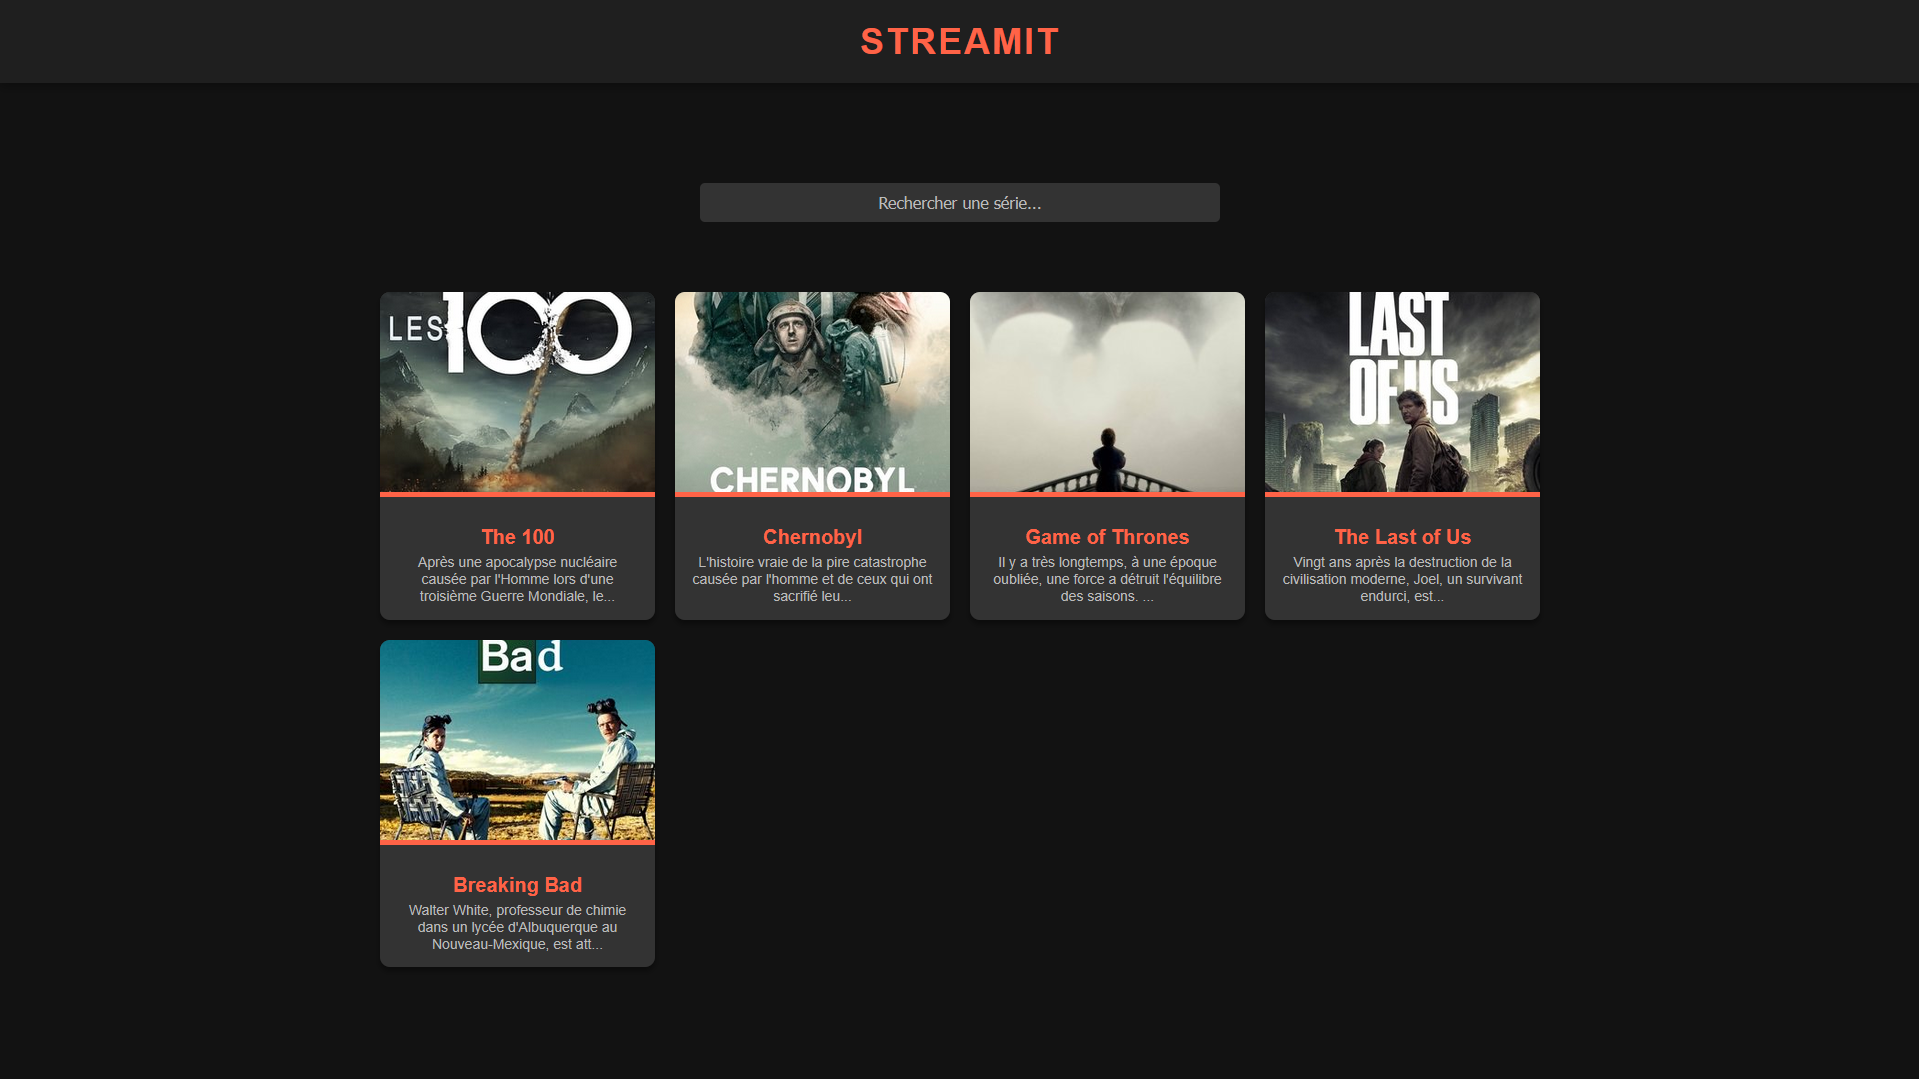
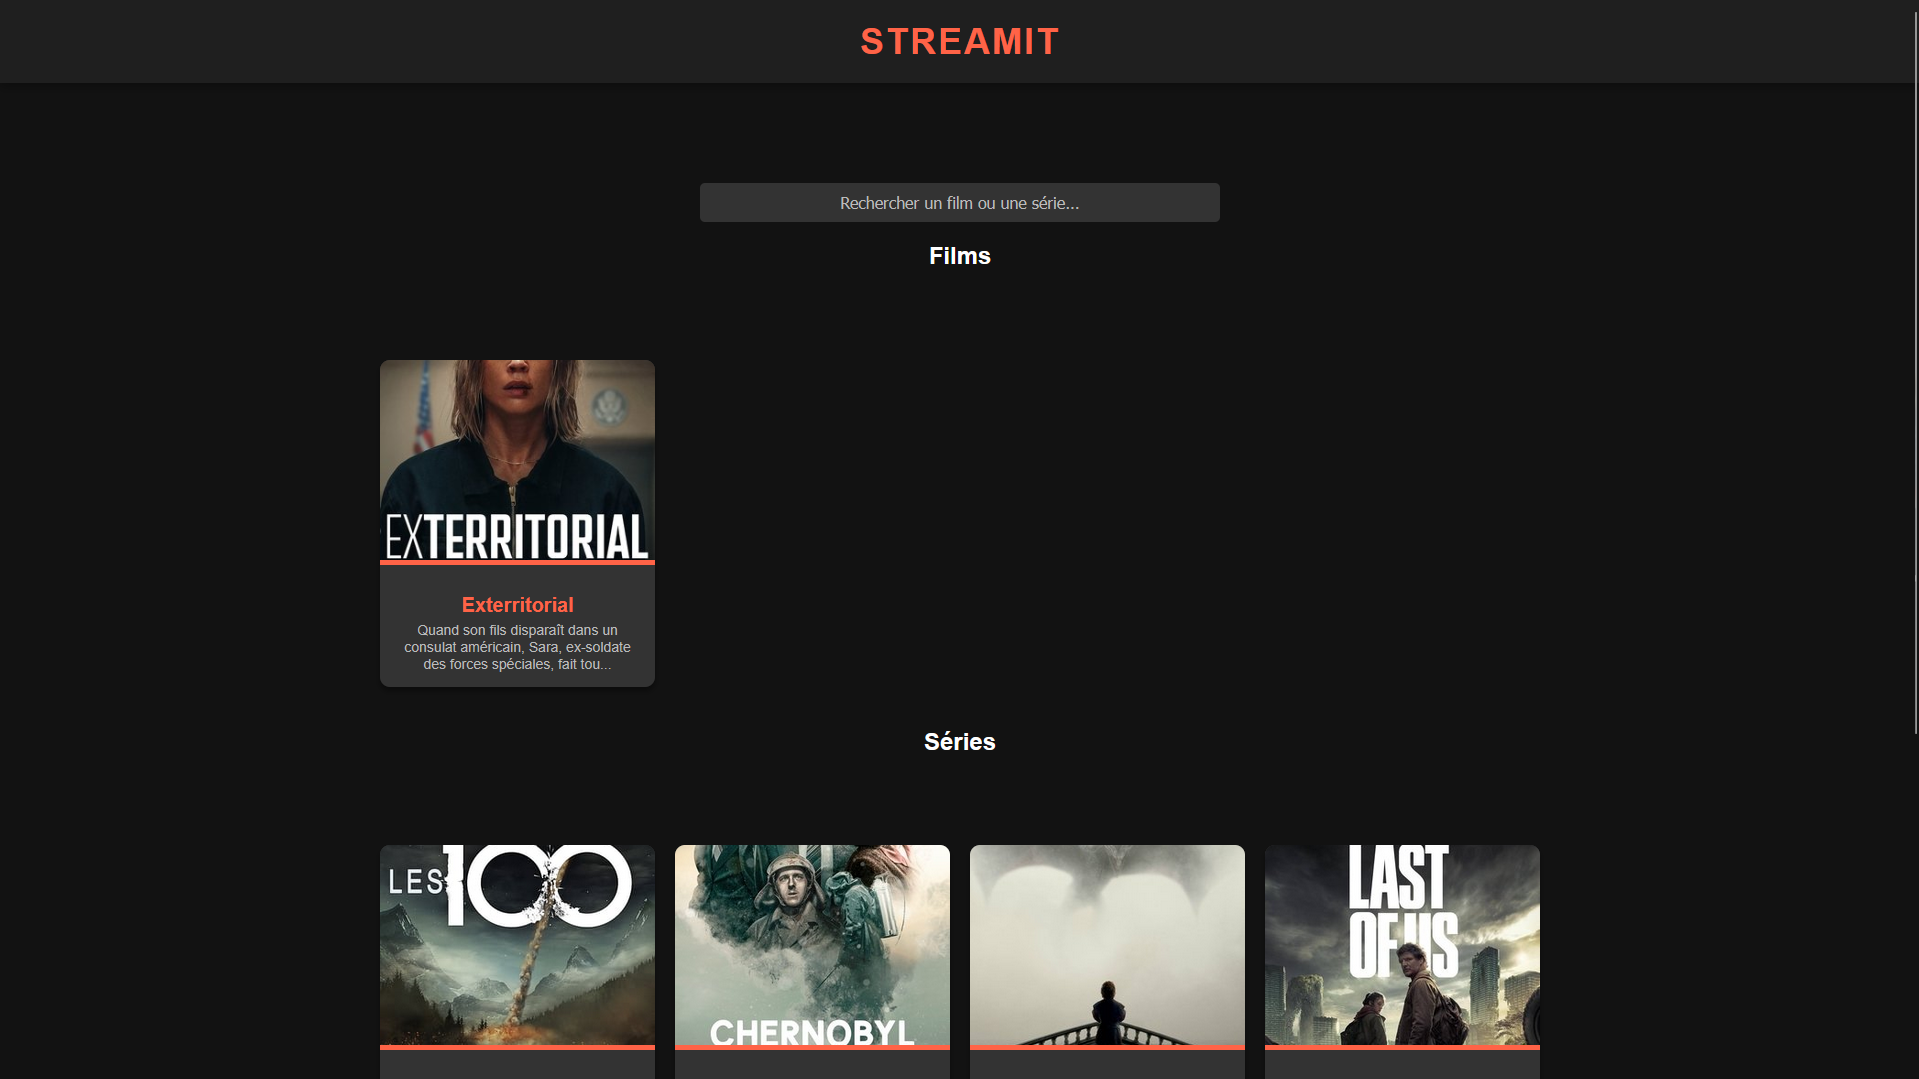
📝 readme update

Changed region(s): [[0.1845, 0.2447, 0.8301, 1.0], [0.4304, 0.1835, 0.5534, 0.2447], [0.4612, 0.6728, 0.5227, 0.7034]]

diff --git a/README.md b/README.md
@@ -25,6 +25,9 @@ Vous pouvez tester l'application [ici](https://www.matheo-pichotmoise.fr/StreamI
 ## Page des séries
 <img src="media/README/series.png" alt="Page des séries" />
 
+## Page des films
+<img src="media/README/films.png" alt="Page des films" />
+
 ## Page de stream
 <img src="media/README/watching.png" alt="Page de stream" />
 </details>
@@ -73,9 +76,10 @@ StreamIt/
 │   │   ├── X/
 │   │   ├── XX/
 │   │   └── XXX/
-│   └── README/               # Dossier d'image pour le README
+│   └── README/              # Dossier d'image pour le README
+│   │   ├── films.png
 │   │   ├── index.png
-│   │   ├── series.pong
+│   │   ├── series.png
 │   │   └── watching.png
 │   └── logo.png              # Logo de l'application
 ├── CODE_OF_CONDUCT.md        # Ensemble de règles concernant ce projet
